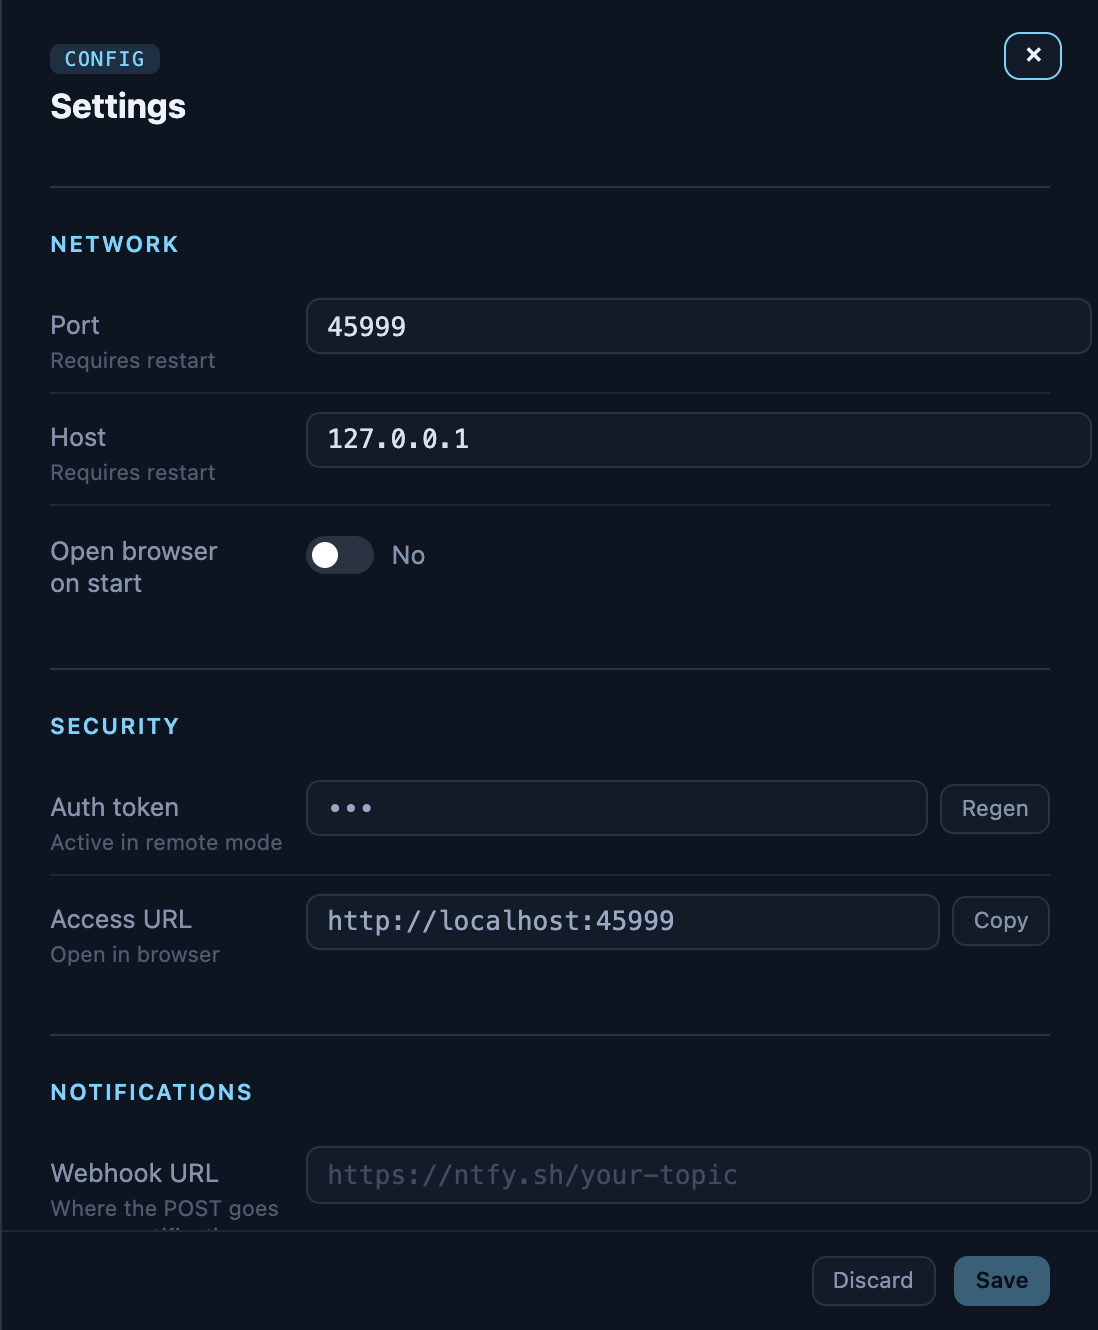
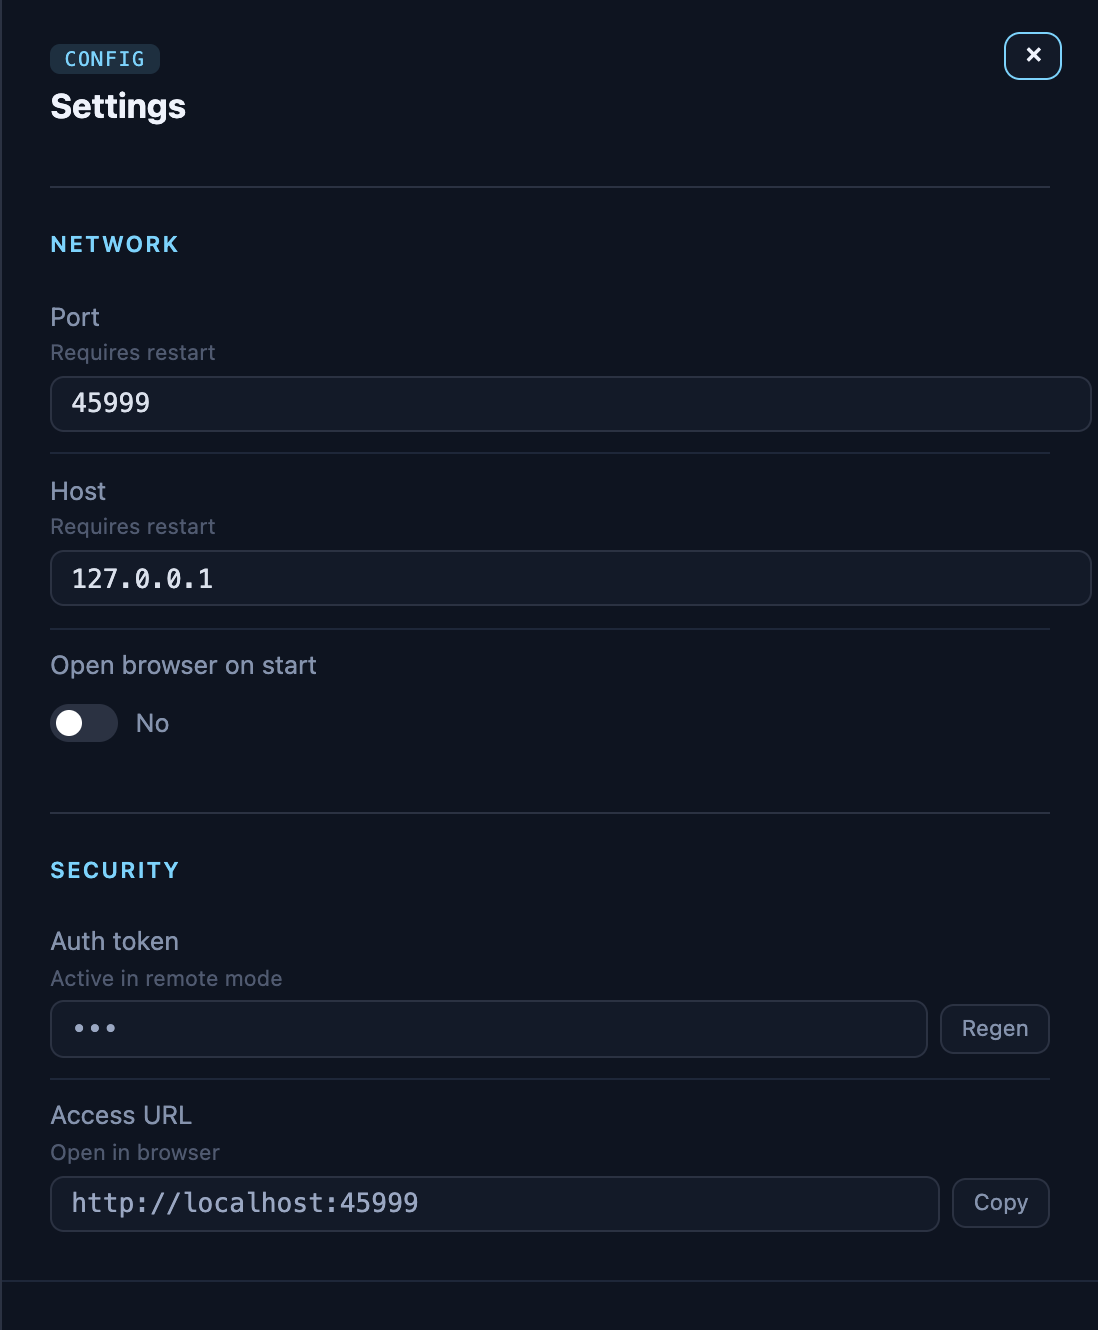
docs: the settings panel as it is now, and its two figures
Both figures were cut from a binary rebuilt on the current code — capture-demo
serves dist/, never the source, so re-cutting before a rebuild photographs the
previous build and reports a clean run.

architecture.md gains what the panel does instead of asking: every control writes
as it changes, a toggle on the click and a text field on change, never on each
keystroke. The rows describing Save, Discard and "required before Save is
enabled" described a footer that no longer exists.

The two notification rows are documented with the one thing a reader cannot infer:
the tray's switches live on the server, so the tray reads whichever one it is
connected to, and the webhook URL is redacted because for Slack, Discord and ntfy
the URL is the credential.

settings-panel's subject named a section that a one-column layout pushes out of
frame; it now names what the picture shows.

diff --git a/docs/architecture.md b/docs/architecture.md
@@ -2301,7 +2301,7 @@ custom headers, so `AuthEventSource` appends `?token=<token>` to the stream URL 
 the server accepts the token from either the `Authorization` header or the `?token=` query
 parameter on every `/api/*` route except `GET /api/config`.
 
-When the user generates a new token via Regen + Save, the server adopts it immediately
+When the user generates a new token via Regen, the server adopts it immediately
 (no restart required). The save handler calls `setToken(pendingToken)` before clearing the
 pending value so `localStorage` stays in sync and subsequent `authFetch` calls continue to
 work.
@@ -2312,15 +2312,24 @@ The settings drawer (gear icon in the header) lets the user change configuration
 editing `config.json` directly. It loads the current config on open (`GET /api/config`)
 and POSTs changes on save.
 
+**The panel has no Save button.** Every control writes as it changes: a toggle on the click, a text
+field on `change` — leaving it or pressing Enter — and never on each keystroke, or typing `45999`
+would post `4`, then `45`, then `459`. A switch reads as done the moment it moves, and one that had
+to be confirmed elsewhere was lying: it looked flipped, the reload showed it back, and nothing had
+been posted. A port the server could not bind is omitted from the body rather than sent, so an empty
+field cannot write `port: 0` on the way past.
+
 | Field | Shown when | Behaviour |
 |-------|------------|-----------|
 | Port | Always | Requires restart |
 | Host | Always | `127.0.0.1` = loopback (default), `0.0.0.0` = LAN; requires restart |
 | Open browser on start | Always | Toggles `config.open` |
+| Notifications — Tray | Always | The four events the menu-bar app may interrupt for. They live in `notifications.tray`, so the tray reads whichever server it is connected to rather than a file of its own |
+| Notifications — Webhook | Behind **Send to a webhook…** | URL, headers and body template, plus its own three switches. Empty URL means the channel is off, which is how it ships — nothing leaves the machine unasked. The URL is redacted like the token: for Slack, Discord and ntfy it IS the credential |
 | Auth token | Always | Always displayed as `***`; **Regen** generates a new token client-side, and warns that saving it locks out every other client |
 | Access URL | Always | Computed live from the current form values; includes `?token=` in remote mode; **Copy** writes the full URL to the clipboard |
-| Common name | Remote mode only | The name the certificate certifies; required before Save is enabled in remote mode, and refused unless it is a hostname or an IPv4 address. Changing a name that already produced a certificate warns that the certificate — and its fingerprint — will be replaced |
-| Fingerprint | Remote mode only | Read-only SHA-256 of the certificate the server is presenting; **Copy** writes it to the clipboard. Server state, so Discard does not revert it and Save cannot change it — a new certificate needs a restart. Empty (placeholder) when the running server has no certificate, i.e. a remote host was typed into the form but not yet restarted into |
+| Common name | Remote mode only | The name the certificate certifies; required in remote mode, and refused unless it is a hostname or an IPv4 address — while it is missing or unusable nothing in the panel is written at all. Changing a name that already produced a certificate warns that the certificate — and its fingerprint — will be replaced |
+| Fingerprint | Remote mode only | Read-only SHA-256 of the certificate the server is presenting; **Copy** writes it to the clipboard. Server state, so nothing in the panel can change it — a new certificate needs a restart. Empty (placeholder) when the running server has no certificate, i.e. a remote host was typed into the form but not yet restarted into |
 | Version (About) | Always | Read-only. The release the RUNNING server reports (`version` on `GET /api/config`), never the number this bundle was built from — a stale `build:client` would otherwise make the portal claim a version the server is not. A server that reports none leaves the dash: this is the one string a bug report quotes verbatim, so a guess here is worse than an admission |
 
 The Access URL field derives its token from (in priority order): the `pendingToken` just
@@ -2342,8 +2351,8 @@ parsed as a config and announced as "Saved".
 
 One consequence of validating the name is worth stating, because it is the only reason the TLS
 section is ever shown outside remote mode: **an invalid Common name reveals the section even in
-loopback mode.** The name is still on its way to `config.json`, so it still blocks Save, and a
-disabled Save whose reason sits inside a hidden section is a dead end with no way out of the
+loopback mode.** The name is still on its way to `config.json`, so it still blocks every write, and
+a refusal whose reason sits inside a hidden section is a dead end with no way out of the
 panel.
 
 Restart semantics: changes to `port`, `host`, or `tls` set `restart_required: true` in

diff --git a/docs/features.md b/docs/features.md
@@ -752,7 +752,7 @@ you installed.*
 
 *The same panel with the host named — the whole second posture in one picture. The
 banner is the warning that the browser will meet a self-signed certificate; the
-**Common name** is what that certificate is issued for and is required before Save
+**Common name** is what that certificate is issued for and is required
 will accept the host; the **Fingerprint** is what a client that cannot click a
 warning away has to pin. It is the RUNNING server's certificate, so it fills in only
 after the restart, and the access URL turns `https` and carries the token. Turning it
